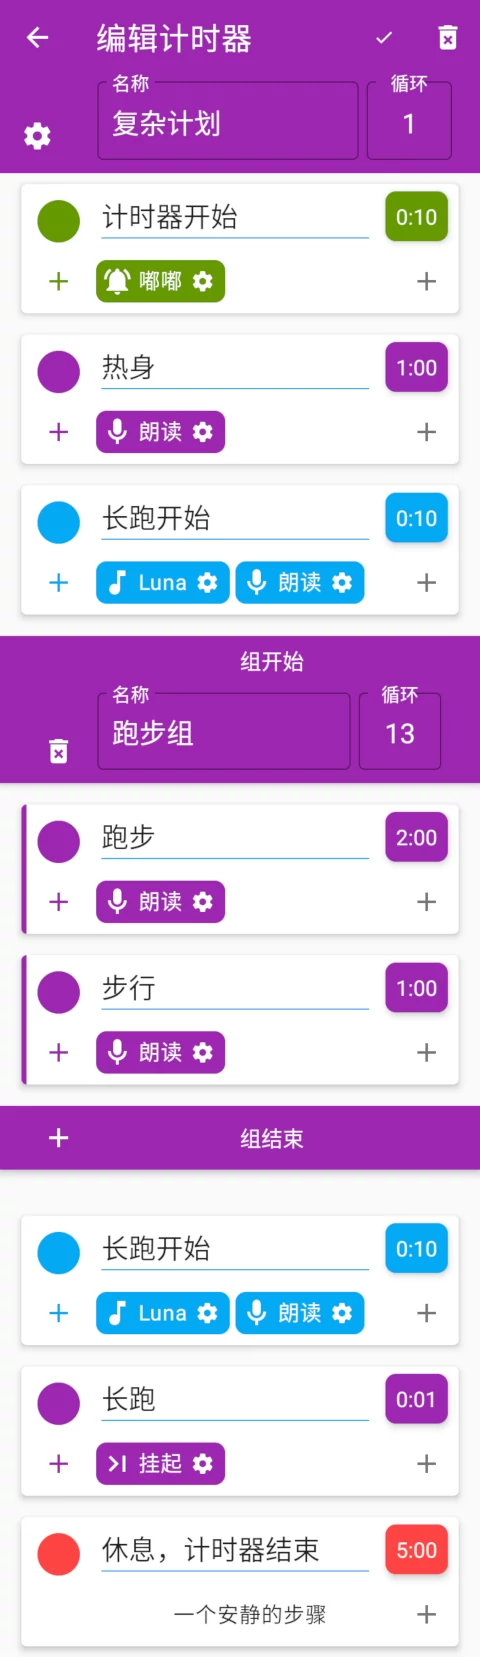
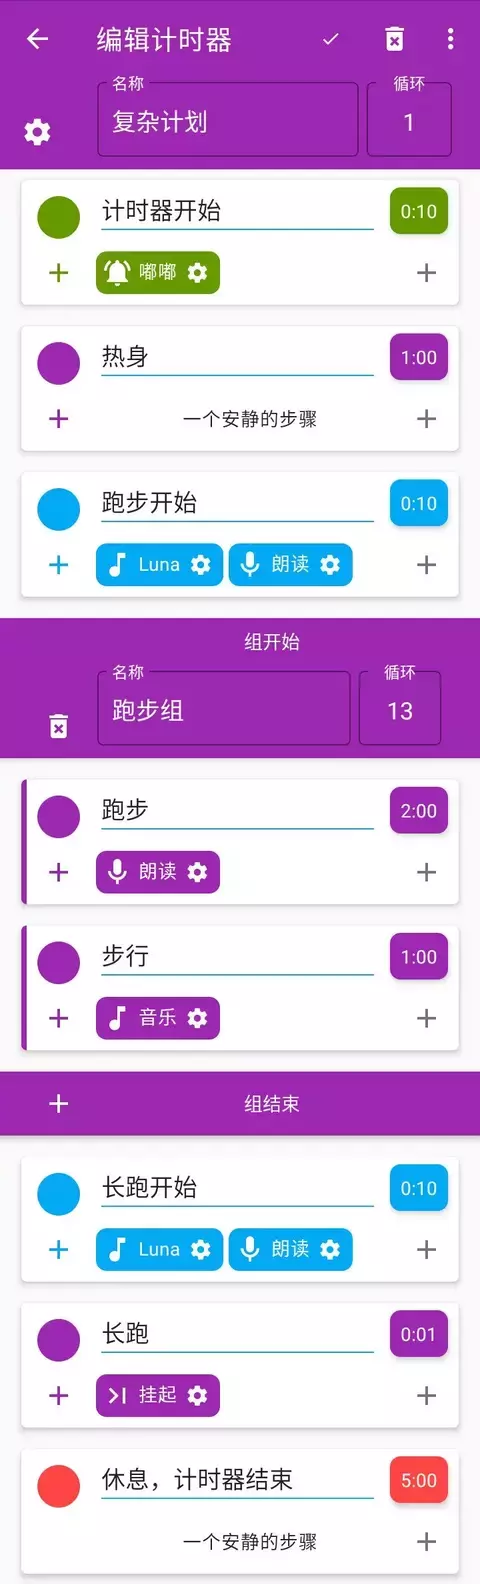
New instruction manual

diff --git a/zh-rCN/instruction-manual.md b/zh-rCN/instruction-manual.md
@@ -1,119 +1,129 @@
 # 计时机器的使用指南
 
-> 复杂的事情需要复杂的应用。
-
 本文非常努力地介绍了计时机器的使用方法。
 
 ## 目录
 
-1. [基本概念](#基本概念)
-1. [计时器例子](#计时器例子)
-1. [界面使用示范](#界面使用示范)
+1. [步骤](#步骤)
+1. [提醒](#提醒)
+1. [行为](#行为)
+1. [起始步骤和结束步骤](#起始步骤和结束步骤)
+1. [一个简单的例子](#一个简单的例子)
+1. [进阶内容：可选的通知步骤](#进阶内容：可选的通知步骤)
+1. [进阶内容：组](#进阶内容：组)
+1. [进阶内容：一个复杂的例子](#进阶内容：一个复杂的例子)
 1. [遇到问题请发邮件吧](#遇到问题请发邮件吧)
-1. [与循环计时器有何不同](#与循环计时器有何不同)
 
-## 基本概念
+## 步骤
 
-1. 计时器
+你可以给计时器起名，设置它的循环次数，它代表了这个任务重复几次。右上角的对勾是保存按钮。
 
-    此应用中的“计时器”不是传统意义上的计时器，而是包含多个单独计时器和循环次数的一组任务。
+![名字和循环](instruction-manual/name-loop.webp)
 
-1. 步骤
+在计时机器中，一个“**步骤**”代表一个计时器，你要这段时间内完成某一项事情。你可以自定义这个步骤的名称和时长。
 
-    代表了要在一定时间内完成一件事。
+![普通步骤](instruction-manual/normal-step.webp)
 
-1. 行为
+## 提醒
 
-    是一个步骤的一部分。表示在这个步骤运行时，手机以什么方式提醒你。
+**一个普通步骤只会计时，在结束后并不会提醒，因此，你需要在它之后添加一个“通知步骤”，以此来得到提醒。**
 
-    - **没有行为的步骤只会安静地计时，然后安静地进入下一步。为了在步骤结束时得到提醒，请添加一个有行为的步骤。**
-    - 已有的行为：音乐、振动、屏幕（弹出提醒界面）、挂起（停留在此步骤等待手动下一步）、朗读（朗读步骤名称）、嘟嘟（每秒播放嘟嘟音）
+有两种添加步骤的方式:
 
-## 计时器例子
+1. 点击最下方“通知步骤”按钮，在最后添加一个新步骤。
 
-参考几个例子，各位就肯定能快速上手这个应用。
+    ![添加步骤1](instruction-manual/add-step1.webp)
 
-### 1. 简单的小例子
+1. 点击步骤左下角的加号，选择“通知步骤”，在此步骤后添加一个新步骤。
 
-这是一个循环3次的跑步+步行的锻炼计划。
+    ![添加步骤2](instruction-manual/add-step2.webp)
 
-![简单的小例子](instruction-manual/simple-timer.webp)
+## 行为
 
-有特殊颜色的步骤出现啦。第一个步骤和最后一个步骤分别是
+通知步骤之所以可以提醒你，是因为它有一些“行为”。
 
-> 起始和结束步骤：一个计时器可以循环多次，而这两个步骤是整个计时器开始和结束的标志，只会在整个计时器的开始和结束时各执行一次。
+**行为**是步骤的提醒方式。你需要为步骤添加行为来得到提醒。
 
-这里的“计时器开始”和“计时器结束”这两个步骤提醒我们整个锻炼计划的开始和结束。它们有着音乐等行为，不然我们是无法知道什么时候开始和结束的。
+- 有六种可选择的行为：音乐、振动、屏幕、挂起、朗读、嘟嘟。你可以在[这里](docs.md)查看它们的具体使用方法。
 
-接下来是一个“跑步”步骤，它没有任何行为，只是简单地计时，但在它之后，有一个“通知步骤”：
+可以通过点击步骤右下角的加号，选择要添加的行为。
 
-> 通知步骤：一个方便的用于提醒的步骤。
-> - 会保存每次编辑后的内容，并在下一次添加通知步骤时显示相同的内容。
-> - 在通知步骤微调时间时，计时器会退回上一步骤，并把时间设置为1分钟（设置中可关闭）。
+![添加行为](instruction-manual/add-behavior.webp)
 
-这样我们就知道什么时候跑步结束，该进入下一步的“步行”了。
+你也可以编辑一个行为，比如设置音乐曲目或是否循环。
 
-因为计时器有三次循环，这个计时器将会在3次跑步+提醒+步行+提醒后进入结束步骤，计划完成🎉
+![编辑行为](instruction-manual/edit-behavior.webp)
 
-### 2. 复杂的小例子
-
-这是一个热身+13次跑步和休息的循环+长跑+休息的复杂计划。
-
-![复杂的小例子](instruction-manual/complex-timer.webp)
-
-↓ 注意到计时器的循环是1次，这是因为整个计划并不能简单地分割为多次循环，而需要更精细地控制。
-
-![1](instruction-manual/complex-timer1.webp)
-
-↑ 首先是起始步骤和热身步骤，它们有着朗读、嘟嘟等行为。它们之后并没有通知步骤，这是因为这些行为会在步骤开始时运行一次，可以用于简单地提醒我们一个新的步骤开始了（你也可以专门添加一些通知步骤）。
-
-接下来的通知步骤告诉我们一个“组"开始啦：
-
-> 组：算是一个计时器中的小计时器，有着自己的名字和循环，并可以包含多个步骤。
-
-↓ 这里我们把跑步+休息的两个步骤放到一个组里，设置循环为13次。
-
-![2](instruction-manual/complex-timer2.webp)
-
-↓ 组之后的通知步骤表示组结束，长跑开始。在它之后，我们设置了一个有挂起行为的步骤。因为不知道长跑的具体时间，所以让个步骤挂起（永久停留在此步骤等待手动下一步），等待长跑结束后，手动下一步。
-
-> 挂起行为会让计时停止，让计时器的时长失效。
-
-最后的结束步骤充当了休息步骤。
-
-![3](instruction-manual/complex-timer3.webp)
-
-## 界面使用示范
-
-- 添加步骤
-
-    ![添加步骤](instruction-manual/add-step1.webp)
-
-    ![添加步骤](instruction-manual/add-step2.webp)
+### 其他操作
 
 - 删除步骤
 
     ![删除步骤](instruction-manual/remove-step.webp)
-
-- 添加行为
-
-    ![添加行为](instruction-manual/add-behavior.webp)
-
-- 编辑行为
-
-    ![编辑行为](instruction-manual/edit-behavior.webp)
 
 - 长按步骤/行为查看其解释
 
     ![步骤解释](instruction-manual/tooltip1.webp)
     ![行为解释](instruction-manual/tooltip2.webp)
 
+## 起始步骤和结束步骤
+
+在步骤面板的最下方，可以选择添加它们。
+
+![起始步骤和结束步骤](instruction-manual/add-steps.webp)
+
+它们无视计时器的循环，只会在整个计时任务的开始和结束运行一次，用于提醒整个计划的开始和结束。
+
+## 一个简单的例子
+
+通过普通步骤来计时，通知步骤来提醒，现在你可以创建一个简单的计时器任务了。
+
+这是一个锻炼计划，它以10秒钟的朗读“计时器开始”并播放音乐为开始，然后循环三次（5分钟跑步 + 10秒钟振动并播放音乐 + 1分钟步行 + 10秒钟振动并播放音乐），然后以10秒钟的播放音乐和嘟嘟音为结束。
+
+![简单的例子](instruction-manual/simple-timer.webp)
+
+## 进阶内容：可选的通知步骤
+
+因为提醒是通过行为实现的，因此你可以给普通步骤添加行为来得到提醒，而不需要添加很多通知步骤。
+
+比如在一个步骤添加“朗读”行为，它会在步骤开始时，朗读一次步骤名称，这样你不需要通知步骤也可以知道一个步骤的开始。再比如“音乐”行为，把它的循环关闭后，它也会在步骤开始时，播放选择的铃声一次，
+
+更多的类似行为特性可以[在这里查看](docs.md)。
+
+通知步骤只是一个快速添加提醒的方式，它还有一些其他特性。
+
+- 会保存每次编辑后的内容，并在下一次添加通知步骤时显示相同的内容。
+- 在通知步骤微调时间时，计时器会退回上一步骤，并把时间设置为1分钟（设置中可关闭）。
+
+## 进阶内容：组
+
+在一个任务中插入一个子计时器，它有自己的组名和组循环。
+
+![组](instruction-manual/simple-group.webp)
+
+## 进阶内容：一个复杂的例子
+
+这是一个热身+13次跑步休息的循环+长跑+休息的复杂计划。
+
+![复杂的小例子](instruction-manual/complex-timer.webp)
+
+👇 注意到计时器的循环是1次，这是因为整个计划并不能简单地分割为多次循环，而需要更精细地控制。
+
+我们使用行为或通知步骤来得到新步骤开始的提醒。
+
+![第一部分](instruction-manual/complex-timer1.webp)
+
+👇 接下来一个“组"开始啦。这里我们把跑步+休息的两个步骤放到一个组里，设置循环为13次。
+
+![第二部分](instruction-manual/complex-timer2.webp)
+
+👇 组之后的通知步骤表示组结束，长跑开始。
+
+在它之后，我们设置了一个有挂起行为的步骤。因为不知道长跑的具体时间，所以让个步骤挂起，这样会让这个步骤成为一个正向计时的秒表，等待手动下一步。
+
+最后的结束步骤充当了休息步骤。
+
+![第三部分](instruction-manual/complex-timer3.webp)
+
 ## 遇到问题请发邮件吧
 
-在应用内点击菜单-【反馈与帮助】-滑动到底部-【反馈】或[点击这里](mailto:ligrsidfd@gmail.com)发送邮件。通常会在24小时内得到回复。
-
-## 与循环计时器有何不同
-
-1. 循环计时器已经停止维护，但开发任务并没有停止，计时机器是其继承者/下一代。
-
-2. 在循环计时器中，每个步骤之后的提醒是自动的、全局的，不需要手动添加的。而在计时机器中，需要手动添加一个有行为的步骤，不然是不会得到任何反馈的。
+在应用内点击菜单-【帮助与反馈】-【反馈】或[直接点击这里](mailto:ligrsidfd@gmail.com)发送邮件。通常会在24小时内得到回复。

diff --git a/zh-rCN/docs.md b/zh-rCN/docs.md
@@ -1,0 +1,40 @@
+# 计时机器应用文档
+
+记录了所有功能的具体信息。
+
+## 行为的详细解释
+
+### 音乐
+
+在此步骤播放音乐。会暂停其他背景音。
+
+- 选择步骤铃声：默认播放应用自带的“哔哔”音。
+- 循环：默认打开，音乐将一直循环到步骤结束。关闭后，音乐只会播放一次。
+
+### 振动
+
+在此步骤振动手机。
+
+### 屏幕
+
+唤醒屏幕并弹出提醒界面。
+
+- 总是全屏：默认关闭，这样在使用手机时，仅会弹出通知；在不使用手机，才会弹出全屏提醒窗口。打开后，无论你是否在使用手机，总会弹出全屏提醒窗口。
+
+### 挂起
+
+停留在此步骤，时间将会正向计时，需要手动点击下一步才可继续运行。
+
+### 朗读
+
+调用手机的【文字转语音】引擎，朗读一些内容。会暂停其他背景音。
+
+- 朗读内容：设置专属的朗读内容。留空时会默认朗读步骤名称。可以用“$loop”代表当前循环，例如，使用“第$loop次循环”可以在运行时读出当前的计时器循环或组循环，
+
+### 嘟嘟
+
+每秒播放嘟嘟音。
+
+- 嘟嘟次数：默认为 0，将会一直嘟嘟直到步骤结束。选择其他次数后，将只会嘟嘟对应次数后停止。
+- 选择嘟嘟音：不同的嘟嘟音
+- 尊重其他背景音：默认开启，会在运行试图暂停其他背景音，并在其他背景音要播放时，停止自己的播放。关闭后，将无视其他背景音，总是嘟嘟。
